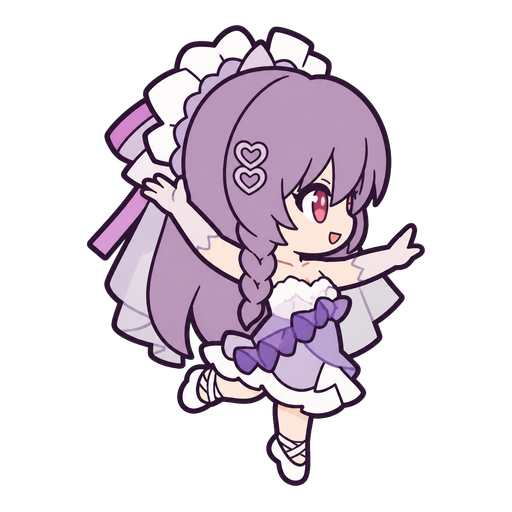
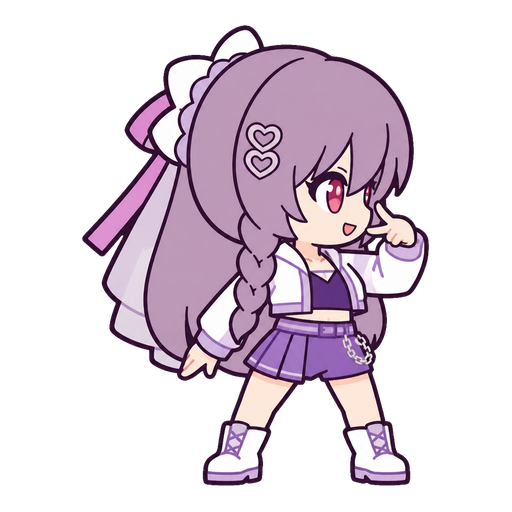
fix(autochess): redraw Lian minimal portrait

Changed region(s): [[0.1562, 0.0312, 0.8438, 0.9688]]

diff --git a/docs/AUTOCHESS_PORTRAIT_STYLE.md b/docs/AUTOCHESS_PORTRAIT_STYLE.md
@@ -38,9 +38,11 @@ round/sprite treatment declared by its explicit source mapping.
   eyes, face, signature headwear, and palette.
 - Do not invent a generic class costume, weapon, mascot, or species when it is absent
   from the reference. Ability props are optional recognition anchors, not a default.
-- Bare-handed characters remain bare-handed. In particular, Lian reads through her
-  dance pose, Yua through her glasses and blue-white technical jacket, and Nightin
-  through her racing outfit and visor rather than a large launcher.
+- Bare-handed characters remain bare-handed. In particular, Lian reads through a
+  grounded K-pop girl-group dance pose with both feet planted, never ballet,
+  pointe work, or a bridal costume; Yua reads through her glasses and blue-white
+  technical jacket, and Nightin through her racing outfit and visor rather than a
+  large launcher.
 - When a small prop is essential, keep it subordinate to the character: Joi may show
   one orange, Kioi one plush, Seki one compact boar motif, and Zeyin one small flame.
 - The classic mappings for Liko, Izayoi, Mofu, SUI's red-hood form, Hazel, Mizuki,
@@ -132,6 +134,11 @@ Original liver/material art is an identity reference only.
   black scarf, black trousers, and boots. He faces screen-right in a neutral standing
   pose; his football-style knee slide remains gameplay motion rather than a required
   baked pose.
+- Lian's minimal sprite preserves her lavender-gray hair, heart hair clips, pink-purple
+  eyes, and white-lilac palette while presenting her as a K-pop girl-group dancer. Use
+  a modern cropped stage outfit, compact hand choreography, bent knees, and a stable
+  two-foot stance; do not use a raised rear leg, pointe shoes, tutu, veil, or bridal
+  silhouette.
 - Seki's minimal sprite must follow her classic Project SP model rather than a generic
   boar fighter: explosive cyan twin-tails with pink streaks, purple eyes, bear hair
   clip, oversized charcoal jacket, black-white crop top, pink shorts, asymmetric
